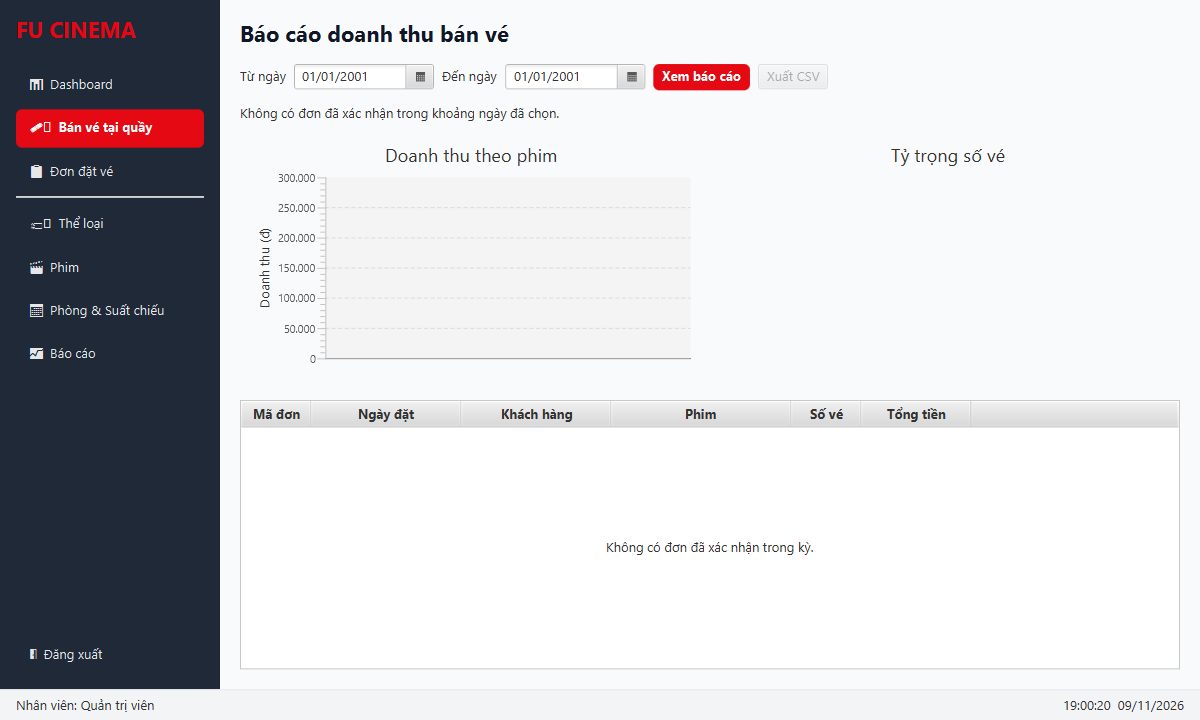
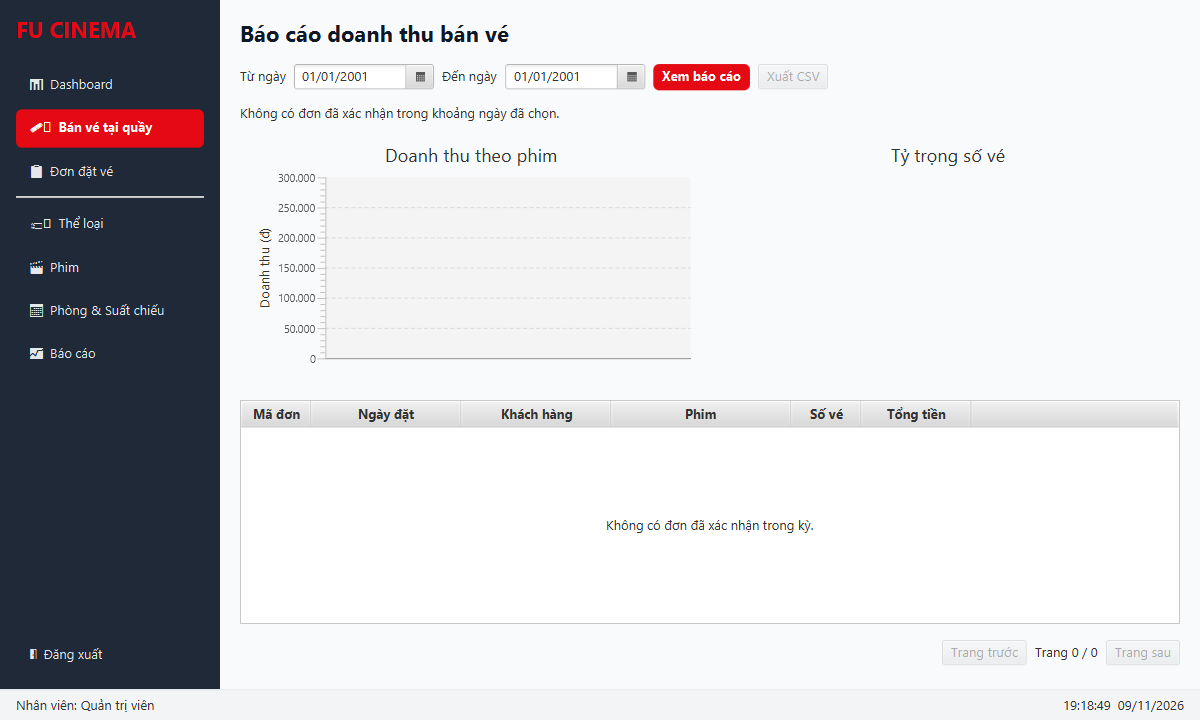
docs(test): record integrated coverage and updated UI evidence Refs #58

Changed region(s): [[0.4933, 0.7028, 0.6783, 0.7639], [0.7708, 0.8861, 0.9867, 0.9167], [0.8942, 0.9778, 0.925, 1.0]]

diff --git a/docs/desktop-acceptance.md b/docs/desktop-acceptance.md
@@ -25,8 +25,8 @@ Windows, JDK 21, JavaFX và dữ liệu mẫu H2 theo profile `test`.
 | TC-D12 | #53 | Suất trùng phòng/giờ và suất có đơn | Chặn trùng lịch. Hủy suất có đơn làm các đơn liên quan CANCELLED. | Chờ màn hình suất chiếu. | Chờ |
 | TC-D13 | #54 | Phòng 8×12, A1 đã bán | Hiện đúng 96 ghế. A1 bị khóa và không thể chọn. | `SeatMapViewTest` xác nhận 96 nút và A1 không vào danh sách chọn. | Pass |
 | TC-D14 | #54 | Chọn 8 ghế rồi chọn ghế thứ 9 | Hiện cảnh báo, ghế thứ 9 tự bỏ chọn và tổng vẫn là 8. | Test JavaFX và ảnh hộp thoại xác nhận cảnh báo và giới hạn. | Pass |
-| TC-D15 | #55 | Chọn khách, phim, suất, ghế và Đã thanh toán | Tổng tiền đúng, đơn CONFIRMED sau khi bán. | Chờ màn hình bán vé tích hợp. | Chờ |
-| TC-D16 | #55 | Web và desktop đặt cùng ghế | Chỉ một đơn thành công. Bên thua thấy cảnh báo và ghế vừa bán. | Chờ màn hình bán vé tích hợp. | Chờ |
+| TC-D15 | #55 | Chọn khách, phim, suất, ghế và Đã thanh toán | Tổng tiền đúng, đơn CONFIRMED sau khi bán. | `CounterSaleControllerTest` chọn ghế, đối chiếu tổng và xác nhận đơn CONFIRMED qua JavaFX/H2. | Pass |
+| TC-D16 | #55 | Web và desktop đặt cùng ghế | Chỉ một đơn thành công. Bên thua thấy cảnh báo và ghế vừa bán. | MockMvc gọi endpoint đặt vé web đồng thời với UI quầy trên SQL Express 17.0. Chỉ một bên thành công, bên thua báo lỗi và sơ đồ cập nhật. | Pass |
 | TC-D17 | #56 | Các đơn PENDING, CONFIRMED, CANCELLED | Xác nhận/hủy theo trạng thái, chặn đổi đơn CANCELLED. | Test web kiểm tra chuyển trạng thái. Chờ nghiệm thu desktop. | Chờ |
 | TC-D18a | #57 | Cùng kỳ có dữ liệu trên web và desktop | Tổng đơn, vé, tiền và danh sách đơn CONFIRMED khớp. | `ReportFacadeTest` đối chiếu với service web trên H2, dữ liệu map trong transaction. | Pass |
 | TC-D18b | #57 | Ngày thiếu hoặc ngày kết thúc trước ngày bắt đầu | Service từ chối. UI báo đúng trường và không truy vấn. | `ReportFacadeTest` nhận BusinessException. `ReportControllerTest` xác nhận đánh dấu trường và không gọi facade. | Pass |
@@ -43,3 +43,8 @@ Trên nhánh #58, `clean verify` chạy 111 test, 0 lỗi và 0 bỏ qua trên
 Windows. JaCoCo ghi nhận 354/465 dòng service và facade được chạy
 (**76,13%**). Mở `target/site/jacoco/index.html` sau khi chạy verify
 để xem chi tiết theo lớp.
+
+Bản ghép #54, #55, #57, #58 và dependency #46 đạt **136 test** trên
+Windows, 0 lỗi và 0 bỏ qua. JaCoCo ghi nhận **78,46%** (386/492 dòng)
+ở phạm vi service và desktop facade. TC-D16 còn cần chạy lại với
+SQL Server 2019/2022 của môi trường nộp.
